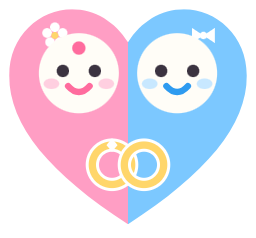
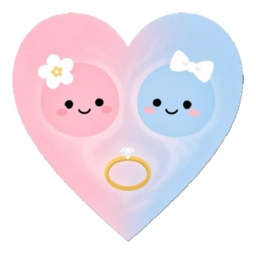
feat: 브랜드 심볼을 파비콘 원본 아트워크로 교체한다
원본(483×458 · 177 kB)을 알파 bbox 크롭 → 232×230 축소 → 12px 균일 여백으로
256×254 · 46.6 kB 로 굽는다. 여백은 치수다 — 그림 높이 비중을 앞선 자산에
맞춰(90.34% → 90.55%) 호출부 size 를 하나도 바꾸지 않았다.

Brand.test.tsx 에 size=64 케이스 추가 — 새 비율(1.0079:1)은 실사용 56 에서
반올림이 차이를 삼켜 정사각 구현도 통과하기 때문이다.

diff --git a/frontend/src/shared/ui/Brand.tsx b/frontend/src/shared/ui/Brand.tsx
@@ -2,9 +2,9 @@
 //
 // ## 두 변이를 **함께 쓰지 않는다**
 //
-// 도착한 자산이 둘이다 — 심볼(하트를 가른 신부/신랑 + 맞물린 반지)과 워드마크("merrymap").
+// 도착한 자산이 둘이다 — 심볼(하트를 가른 신부/신랑 + 다이아 반지)과 워드마크("merrymap").
 // 그런데 **워드마크가 이미 같은 모티프를 품고 있다**: `e` 자리에 반지 두 개가 맞물려 있고 `p` 의
-// 볼이 하트를 넣은 지도 핀이다. 옆에 심볼을 또 세우면 하트 2개·반지 2쌍이 되어 작은 크기에서
+// 볼이 하트를 넣은 지도 핀이다. 옆에 심볼을 또 세우면 하트가 2개·반지가 3개로 겹쳐 작은 크기에서
 // 뭉개진다. 그래서 **자리마다 하나만** 쓴다 — 브랜드 매뉴얼의 표준 분리 방식이다.
 //
 //   가로로 긴 자리(사이드바 · 모바일 상단 바 · 로그인 · 온보딩)  → **워드마크**. 이름까지 말한다
@@ -27,7 +27,14 @@
 // 워드마크는 `logos/logo-text-3.png`(2172×724)에서 **알파 bbox 로 크롭한 뒤 축소**한 것이다.
 // 원본은 여백이 비대칭이라(L125 R121 T127 **B196**) 그대로 쓰면 글자가 광학적으로 위로 떠 보이고
 // 높이를 지정해도 실제 글자 높이가 매번 달라진다. 크롭 후 실제 글자 영역은 1926×401 = **4.803:1**.
-// 심볼은 `logo/merrymap-2B-symbol-256.png` 를 그대로 쓴다(1024×951, 정사각이 아니다).
+// 심볼은 **파비콘과 같은 원본** `logos/favicon.png`(483×458)에서 파생했다(2026-08-29 교체 —
+// 그전에는 `logo/merrymap-2B-symbol-256.png` 를 그대로 썼다). 원본 여백이 비대칭이라
+// (L17 R15 T4 B6) 알파 bbox 로 크롭(451×448 = 1.007:1)한 뒤 232×230 으로 줄이고,
+// **12px 균일 여백**을 둘러 256×254 로 만들었다.
+//
+// ⚠ 그 여백은 장식이 아니라 **치수**다. 그림이 캔버스 높이의 90.55% 를 차지해 앞선 자산
+// (215/238 = 90.34%)과 **같은 크기로 보인다** — 그래서 교체하면서 호출부의 `size` 를 한 곳도
+// 건드리지 않았다. 여백을 빼고 다시 구우면 오버레이의 마크만 11% 커진다.
 //
 // ⚠ 둘 다 Vite 의 `assetsInlineLimit`(기본 4,096 B)보다 커서 **별도 파일로 나간다.** 이보다 작은
 // 자산으로 바꾸면 base64 로 JS 에 인라인돼 **최대 단일 청크 예산에 그대로 잡힌다**(여유 53 B).
@@ -39,8 +46,10 @@ export type BrandVariant = "wordmark" | "symbol";
 /**
  * 변이별 원본 픽셀과 접근명.
  *
- * **둘 다 정사각이 아니다** — `width` 를 이 비율로 계산해 함께 내야 찌그러지지도, 이미지가 늦게
- * 도착했을 때 레이아웃이 밀리지도(CLS) 않는다.
+ * **둘 다 정사각이 아니다**(워드마크 4.803:1 · 심볼 1.0079:1) — `width` 를 이 비율로 계산해 함께
+ * 내야 찌그러지지도, 이미지가 늦게 도착했을 때 레이아웃이 밀리지도(CLS) 않는다. 심볼이 거의
+ * 정사각이라고 `size` 를 양쪽에 그대로 넣지 말 것 — 실사용 56 에서는 반올림이 차이를 삼키지만
+ * 64 부터는 65×64 로 갈린다.
  *
  * `alt` 가 변이마다 다른 이유:
  *   · 워드마크 — 이 마크가 **유일한 브랜드 표기**다(옆에 텍스트가 없다). 이름을 전달해야 한다.
@@ -51,7 +60,7 @@ export type BrandVariant = "wordmark" | "symbol";
  */
 const VARIANTS = {
   wordmark: { src: wordmarkUrl, width: 461, height: 96, alt: "메리맵" },
-  symbol: { src: symbolUrl, width: 1024, height: 951, alt: "" },
+  symbol: { src: symbolUrl, width: 256, height: 254, alt: "" },
 } as const satisfies Record<BrandVariant, { src: string; width: number; height: number; alt: string }>;
 
 export interface BrandProps {
@@ -65,7 +74,7 @@ export interface BrandProps {
 // 최소 크기 — 벡터 원본이 없어서(PNG 만 도착했다) 렌더러가 보정할 여지가 없다. 크기를 지키는 것이
 // 유일한 수단이다.
 //   워드마크 18px — 그 아래로는 `e` 자리의 맞물린 반지와 `p` 의 하트 핀이 뭉개진다
-//   심볼   24px — 얼굴 2개 + 볼터치 + 반지 겹침이 들어가 디테일 밀도가 더 높다
+//   심볼   24px — 얼굴 2개 + 볼터치 + 다이아 반지가 들어가 디테일 밀도가 더 높다
 // SVG 원본이 생기면 둘 다 완화된다.
 
 export function Brand({ size = 26, variant = "wordmark", className }: BrandProps) {

diff --git a/frontend/src/shared/ui/Brand.test.tsx b/frontend/src/shared/ui/Brand.test.tsx
@@ -38,12 +38,23 @@ describe("Brand", () => {
     expect(img).toHaveAttribute("width", "125");
   });
 
-  // 심볼 원본 1024×951 = 1.0768:1. 56 → round(56 × 1024/951) = 60.
-  // 두 변이의 비율이 4배 넘게 다르다 — 하나의 상수로 뭉뚱그리면 한쪽이 찌그러진다.
-  it("심볼은 자기 비율(1.0768:1)로 계산한다 — 워드마크와 다르다", () => {
+  // 심볼 원본 256×254 = 1.0079:1. 유일한 사용처(생성 오버레이)의 실크기 56 을 그대로 못 박는다.
+  // 56 → round(56 × 256/254) = 56.
+  it("심볼도 width 를 함께 낸다 — 유일한 사용처 크기 56", () => {
     render(<Brand size={56} variant="symbol" />);
     const img = document.querySelector("img");
     expect(img).toHaveAttribute("height", "56");
-    expect(img).toHaveAttribute("width", "60");
+    expect(img).toHaveAttribute("width", "56");
+  });
+
+  // ⚠ 위 케이스만으로는 **부족하다** — 56 에서는 반올림이 2px 의 차이를 삼켜 `width={size}` 로
+  // 뭉뚱그린 구현도 그대로 통과한다(2026-08-29 심볼 자산이 1.0768:1 → 1.0079:1 로 바뀌며 생긴
+  // 사각지대다). 비율이 실제로 갈리는 크기를 하나 더 고정한다 — round(64 × 256/254) = 65.
+  // 워드마크는 같은 64 에서 round(64 × 461/96) = 307 이다. 상수를 하나로 합치면 한쪽이 찌그러진다.
+  it("심볼은 자기 비율(1.0079:1)로 계산한다 — 정사각이 아니다", () => {
+    render(<Brand size={64} variant="symbol" />);
+    const img = document.querySelector("img");
+    expect(img).toHaveAttribute("height", "64");
+    expect(img).toHaveAttribute("width", "65");
   });
 });

diff --git a/frontend/index.html b/frontend/index.html
@@ -6,8 +6,12 @@
          user-scalable=no · maximum-scale 은 넣지 않는다 — WCAG 가 최소 2배 확대를 요구한다 (docs/design/a11y.md §2.4). -->
     <meta name="viewport" content="width=device-width, initial-scale=1.0, viewport-fit=cover" />
     <!-- 브랜드 아이콘 (docs/design/decisions.md D15) — 원본 `logos/favicon.png`.
-         그림의 알파 bbox 가 451×448 = 1.007:1 로 **사실상 정사각**이라 아이콘 슬롯에 그대로 들어간다
-         (사이드바·로그인에 쓰는 심볼은 1024×951 이라 이 자리에 못 쓴다 — 다른 자산이다).
+         그림의 알파 bbox 가 451×448 = 1.007:1 로 **사실상 정사각**이라 아이콘 슬롯에 그대로 들어간다.
+         2026-08-29 부터 생성 오버레이의 심볼(`src/shared/assets/merrymap-symbol-256.png`)도 **같은
+         원본에서 나온다.** 그래도 **파일은 합치지 않는다** — 여기는 96×96 무여백이고 저기는
+         256×254 에 12px 여백을 둘러 굽는다(호출부 `size` 를 안 건드리려는 치수다). 무엇보다 이 자리는
+         번들러가 해시를 붙이지 않는 `public/` 이어야 하고, 심볼은 `immutable` 캐시를 받으려고
+         `src/` 에서 import 한다. 자산을 갈아 끼울 땐 **두 파일을 같이** 다시 구울 것.
          예전 자리표시(플럼 사각형 + 흰 원)의 favicon.svg 는 **지웠다.** 남겨 두면 SVG 파비콘을
          지원하는 브라우저가 그쪽을 우선해 로고가 안 보인다.
          apple-touch-icon 이 따로인 이유 — iOS 는 투명 PNG 를 홈 화면에서 **검정으로 합성**하므로

diff --git a/frontend/docs/design/decisions.md b/frontend/docs/design/decisions.md
@@ -682,7 +682,7 @@ Base UI 가 불확정 상태의 `aria-valuetext` **기본값**을 영어 `'indet
 
 | 자산 | 원본 | 내용 |
 |---|---|---|
-| **심볼** | `logo/merrymap-2B-symbol-{128…1024}.png` (1024×951) | 하트를 좌우로 가른 신부/신랑 캐릭터 + 맞물린 반지 |
+| **심볼** | ~~`logo/merrymap-2B-symbol-{128…1024}.png` (1024×951)~~ → **`logos/favicon.png` (483×458)** — 2026-08-29 교체, 아래 「심볼 자산 교체」 | 하트를 좌우로 가른 신부/신랑 캐릭터 + 다이아 반지 |
 | **워드마크** | `logos/logo-text-3.png` (2172×724) | 로고타입 "merrymap" — `e` 자리에 반지 두 개, `p` 볼에 하트를 넣은 지도 핀 |
 
 둘 다 색은 **파스텔 핑크 · 베이비 블루 · 크림 · 골드**다.
@@ -713,7 +713,7 @@ Base UI 가 불확정 상태의 `aria-valuetext` **기본값**을 영어 `'indet
 
 ### 결정 ② — 두 마크를 **함께 쓰지 않는다**
 
-**워드마크가 이미 심볼의 모티프를 품고 있다** — `e` 자리에 반지 두 개가 맞물려 있고 `p` 의 볼이 하트를 넣은 지도 핀이다. 옆에 심볼을 또 세우면 하트 2개·반지 2쌍이 되어 작은 크기에서 뭉개진다. 자리마다 **하나만** 쓴다.
+**워드마크가 이미 심볼의 모티프를 품고 있다** — `e` 자리에 반지 두 개가 맞물려 있고 `p` 의 볼이 하트를 넣은 지도 핀이다. 옆에 심볼을 또 세우면 하트가 2개·반지가 3개로 겹쳐 작은 크기에서 뭉개진다. 자리마다 **하나만** 쓴다.
 
 | 자리 | 변이 | 크기 | 사유 |
 |---|---|---|---|
@@ -732,7 +732,7 @@ Base UI 가 불확정 상태의 `aria-valuetext` **기본값**을 영어 `'indet
 도착한 자산이 **전부 PNG 이고 벡터 원본이 없어서** 렌더러가 보정할 여지가 없다 — 크기를 지키는 것이 유일한 수단이다.
 
 - **워드마크 18px** — 그 아래로는 `e` 의 맞물린 반지와 `p` 의 하트 핀이 뭉개진다
-- **심볼 24px** — 얼굴 2개 + 볼터치 + 반지 겹침이라 디테일 밀도가 더 높다
+- **심볼 24px** — 얼굴 2개 + 볼터치 + 다이아 반지라 디테일 밀도가 더 높다
 
 SVG 원본이 생기면 둘 다 완화된다.
 
@@ -760,7 +760,9 @@ SVG 원본이 생기면 둘 다 완화된다.
 | 파일 | 크기 | 덮는 범위 |
 |---|---|---|
 | `src/shared/assets/merrymap-wordmark-96.png` (461×96) | 29.9 kB | 최대 사용처 32px × 3배 밀도 = 96px |
-| `src/shared/assets/merrymap-symbol-256.png` (1024×951) | 19.4 kB | 최대 사용처 56px × 3배 밀도 = 168px |
+| `src/shared/assets/merrymap-symbol-256.png` (256×254) | 46.6 kB | 최대 사용처 56px × 3배 밀도 = 168px |
+
+심볼이 19.4 kB → 46.6 kB 로 **2.4배** 늘었다(2026-08-29 교체). 그림이 플랫 벡터풍에서 소프트 렌더로 바뀌어 고유 색이 1,389 → 21,791 개가 됐기 때문이고, PNG 는 이런 그라디언트를 못 줄인다. 그래도 **원본 483×458(177 kB)을 그대로 쓰지 않고 26% 로 줄인 값**이며, 위 표대로 `.png` 는 어느 예산에도 잡히지 않는다. 네트워크로는 생성 오버레이가 뜰 때 한 번 받는다 — 팔레트 양자화는 검토했으나 소프트 그라디언트에 밴딩이 생겨 쓰지 않았다.
 
 **Vite 의 `assetsInlineLimit`(기본 4,096 B)보다 커야 별도 파일로 남는다.** 이보다 작은 자산으로 바꾸면 base64 로 JS 에 인라인돼 **최대 단일 청크 예산에 그대로 잡힌다** — 그 예산은 여유가 수십 B 뿐이다(`scripts/check-bundle-budget.mjs`의 2026-08-28 항목).
 
@@ -770,13 +772,16 @@ SVG 원본이 생기면 둘 다 완화된다.
 
 - **`alt` 가 변이마다 다르다.** 워드마크는 옆에 텍스트가 없어 **이 이미지가 유일한 브랜드 표기**이므로 접근명 `"메리맵"` 을 준다(로고타입은 라틴 "merrymap" 이지만 접근명은 UI 전반이 쓰는 한국어 제품명으로 맞춘다). 심볼은 유일한 사용처인 생성 오버레이가 `<output aria-live>` 안에 안내 문구 2줄을 이미 갖고 있어 **빈 문자열**이다 — 대기 안내를 제품명으로 밀어내지 않는다(`icons.tsx`의 *"텍스트 라벨과 함께 놓인 아이콘에는 접근명을 주지 않는다"* 와 같은 원칙).
 - 로고타입은 **이미지 안의 글자**다. WCAG 1.4.5(Images of Text)는 **로고타입을 명시적으로 예외**로 두므로 규정 위반이 아니다. 다만 그래서 접근명이 유일한 전달 경로다 — 위 `alt` 가 사라지면 브랜드가 스크린리더에서 통째로 사라진다.
-- `width`·`height`를 **둘 다** 낸다 — 두 원본 다 정사각이 아니고(워드마크 4.803:1 · 심볼 1.0768:1) height 만 주면 이미지 도착 전까지 레이아웃이 밀린다(CLS). **비율이 4배 넘게 다르므로 상수를 하나로 뭉뚱그리면 한쪽이 찌그러진다** — `Brand.test.tsx`가 두 변이를 각각 단언한다.
+- `width`·`height`를 **둘 다** 낸다 — 두 원본 다 정사각이 아니고(워드마크 4.803:1 · 심볼 **1.0079:1**) height 만 주면 이미지 도착 전까지 레이아웃이 밀린다(CLS). **비율이 4.8배 다르므로 상수를 하나로 뭉뚱그리면 한쪽이 찌그러진다** — `Brand.test.tsx`가 두 변이를 각각 단언한다.
+  - ⚠ 심볼이 **거의 정사각**이 되면서(2026-08-29) 실사용 크기 56 에서는 `round(56 × 256/254) = 56` 이라 **`width={size}` 로 뭉뚱그린 구현도 테스트를 통과한다.** 그래서 비율이 실제로 갈리는 `size=64`(→ 65×64)를 케이스로 하나 더 못 박았다. 자산이 또 바뀌면 이 경계 크기를 다시 계산할 것.
 - **브랜드를 링크로 만들지 않는다.** TanStack `Link`는 활성 시 `aria-current="page"`를 붙이고 props 로 덮을 수 없어서, 대시보드에서 홈 항목과 함께 2개가 되어 `AppShell.test.tsx`의 *"정확히 하나"* 계약이 깨진다. 바로 아래 홈 탭이 있으므로 잃는 경로가 없다.
 - 정적 이미지라 [D14](#d14-로딩-상태의-시각과-문구-체계를-정한다)의 「모션은 점 3개 하나뿐」과 `prefers-reduced-motion` 처리에 **영향이 없다**.
 
-### 파비콘 — **세 번째 자산**을 쓴다 (2026-08-29)
+### 파비콘 — **두 번째 원본**을 쓴다 (2026-08-29)
 
-파비콘은 사이드바의 심볼을 재활용하지 않는다. **전용 원본 `logos/favicon.png` 가 따로 있고**, 그 그림의 알파 bbox 가 `451×448` = **1.007:1 로 사실상 정사각**이다 — 심볼(1024×951 = 1.077:1)로는 풀 수 없던 문제가 이 자산에서는 애초에 없다.
+파비콘은 당시의 심볼을 재활용하지 않았다. **전용 원본 `logos/favicon.png` 가 따로 있고**, 그 그림의 알파 bbox 가 `451×448` = **1.007:1 로 사실상 정사각**이다 — 당시 심볼(1024×951 = 1.077:1)로는 풀 수 없던 문제가 이 자산에서는 애초에 없다.
+
+> **같은 날 후속 —** 아래 「심볼 자산 교체」 대로 **심볼도 이 원본으로 갈아탔다.** 그래도 파일은 합치지 않는다(굽는 방식과 배치 경로가 다르다). 근거는 그 절에 적었다.
 
 | 산출 | 크기 | 배경 | 여백 |
 |---|---|---|---|
@@ -787,6 +792,26 @@ SVG 원본이 생기면 둘 다 완화된다.
 - **iOS 는 투명 PNG 를 홈 화면에서 검정으로 합성한다**(apple-touch-icon 은 투명을 지원하지 않는다). 평탄화하지 않으면 검은 사각형 위에 파스텔 하트가 얹힌다. 흰색을 고른 이유는 이 아트워크가 흰 바탕 전제로 그려졌기 때문이다(얼굴·꽃·나비넥타이가 전부 흰색/크림). 여백 10% 는 iOS 라운드 마스크의 안전 영역이다.
 - 파생 절차는 워드마크와 같다(크롭 → **프리멀티플라이드** 축소 → 재인코딩). 다만 여기서는 **정사각 캔버스 정중앙에 다시 앉히는** 단계가 하나 더 있다 — 원본 여백이 비대칭이라(L17 R15 T4 B6) 크롭하지 않으면 16px 탭에서 하트가 가운데에서 벗어난다.
 - **PWA 매니페스트는 열지 않았다** — 쓰는 곳이 없다(ADR 0004 *"쓸 곳이 확정되지 않은 것을 미리 만들지 않는다"*). 필요해지면 이 자산이 이미 정사각이라 바로 쓸 수 있다.
+
+### 심볼 자산 교체 — 파비콘 원본으로 통일한다 (2026-08-29)
+
+디자인 오너가 심볼을 `logos/favicon.png` 의 아트워크로 바꿔 달라고 했다. 파비콘·apple-touch-icon 과 **원본이 하나로 모여** 탭·홈 화면·생성 오버레이가 같은 그림을 쓴다.
+
+원본을 그대로 import 하지 않는다 — **177 kB · 483×458 · 비대칭 여백(L17 R15 T4 B6)** 이라 56px 자리의 자산이 아니다. 파생 절차는 워드마크·파비콘과 같되(알파 bbox 크롭 → **프리멀티플라이드** 박스 필터 축소 → 재인코딩) **마지막에 여백을 두르는** 단계가 다르다.
+
+| | 교체 전 | 교체 후 |
+|---|---|---|
+| 캔버스 | 256×238 (**1.0756:1**) | **256×254** (1.0079:1) |
+| 알파 bbox(실제 그림) | 238×215 | 232×230 (12px 균일 여백) |
+| **그림 높이 / 캔버스 높이** | **90.34 %** | **90.55 %** |
+| `size=56` 에서 보이는 마크 높이 | 50.59 px | **50.71 px** (Δ 0.12 px) |
+| 파일 | 19.4 kB | 46.6 kB |
+
+**여백 12px 은 장식이 아니라 치수다.** 타이트 크롭하면 마크가 오버레이에서 **11% 커진다** — 자산을 갈아 끼우면서 화면이 달라지는 건 교체가 아니라 재디자인이다. 그림 높이 비중을 앞선 자산에 맞춰 구웠기 때문에 `GeneratingOverlay` 의 `size={56}` 을 포함해 **호출부는 한 줄도 바뀌지 않았다.**
+
+바뀐 것은 `Brand.tsx` 의 치수 상수(`1024×951` → `256×254`)와 그 비율을 단언하는 테스트, 그리고 이 문서·`README.md`·`index.html` 의 서술뿐이다.
+
+⚠ **다음에 또 바꾸는 사람에게** — ① 여백 비중(90.55%)을 맞추지 않으면 오버레이 마크 크기가 조용히 달라진다 ② 치수 상수를 같이 고치지 않으면 `<img>` 가 찌그러진다 ③ 4,096 B 밑으로 내려가면 base64 인라인돼 청크 예산에 잡힌다 ④ 파비콘 2벌은 별개 파일이라 **같이 다시 구워야** 한다.
 
 ### 결과
 

diff --git a/frontend/docs/design/README.md b/frontend/docs/design/README.md
@@ -104,13 +104,13 @@
 | 항목 | 값 |
 |---|---|
 | 워드마크 | `src/shared/assets/merrymap-wordmark-96.png` (461×96 = **4.803:1**) — `logos/logo-text-3.png` 를 알파 bbox 로 크롭 후 축소한 파생본 |
-| 심볼 | `src/shared/assets/merrymap-symbol-256.png` (1024×951 = **1.0768:1**) — `logo/` 원본 그대로 |
+| 심볼 | `src/shared/assets/merrymap-symbol-256.png` (256×254 = **1.0079:1**) — **파비콘과 같은 원본** `logos/favicon.png` 를 알파 bbox 로 크롭 → 232×230 축소 → **12px 균일 여백**을 둘러 구운 파생본 (2026-08-29 교체). 여백은 치수다 — 그림 높이 비중(90.55%)이 앞선 자산과 같아야 오버레이 마크 크기가 유지된다 |
 | **함께 쓰지 않는다** | 워드마크가 이미 반지·하트 핀 모티프를 품고 있어 심볼을 곁들이면 모티프가 중복된다. **자리마다 하나만** |
 | 구현 | `shared/ui/Brand.tsx` 하나(`variant="wordmark" \| "symbol"`). 셸은 `AppShell`, 셸 밖 화면은 `Page` 의 `brand` prop |
 | 크기 | 사이드바 26 · 모바일 상단 바 22 · 로그인 32 · 온보딩 22 (전부 워드마크) / 생성 오버레이 56 (심볼) |
 | 최소 크기 | **워드마크 18 · 심볼 24.** 벡터 원본이 없어 렌더러가 보정하지 못한다 |
 | 접근성 | 워드마크 `alt="메리맵"`(유일한 브랜드 표기) · 심볼 `alt=""`(장식) · `width`/`height` 둘 다 명시(CLS) · **링크로 만들지 않는다**(`aria-current` 계약) |
-| 파비콘 | `public/favicon.png`(96, 투명) · `public/apple-touch-icon.png`(180, **흰 배경 평탄화** + 여백 10%) — 전용 원본 `logos/favicon.png`(1.007:1, 사실상 정사각). 자리표시 `favicon.svg` 는 **삭제**했다 |
+| 파비콘 | `public/favicon.png`(96, 투명) · `public/apple-touch-icon.png`(180, **흰 배경 평탄화** + 여백 10%) — 원본 `logos/favicon.png`(1.007:1, 사실상 정사각). **심볼과 원본을 공유하지만 파일은 따로다**(굽는 여백·배치 경로가 다르다 — 자산 교체 시 **셋을 같이** 다시 구울 것). 자리표시 `favicon.svg` 는 **삭제**했다 |
 
 ### 범위 밖 (현행)
 
